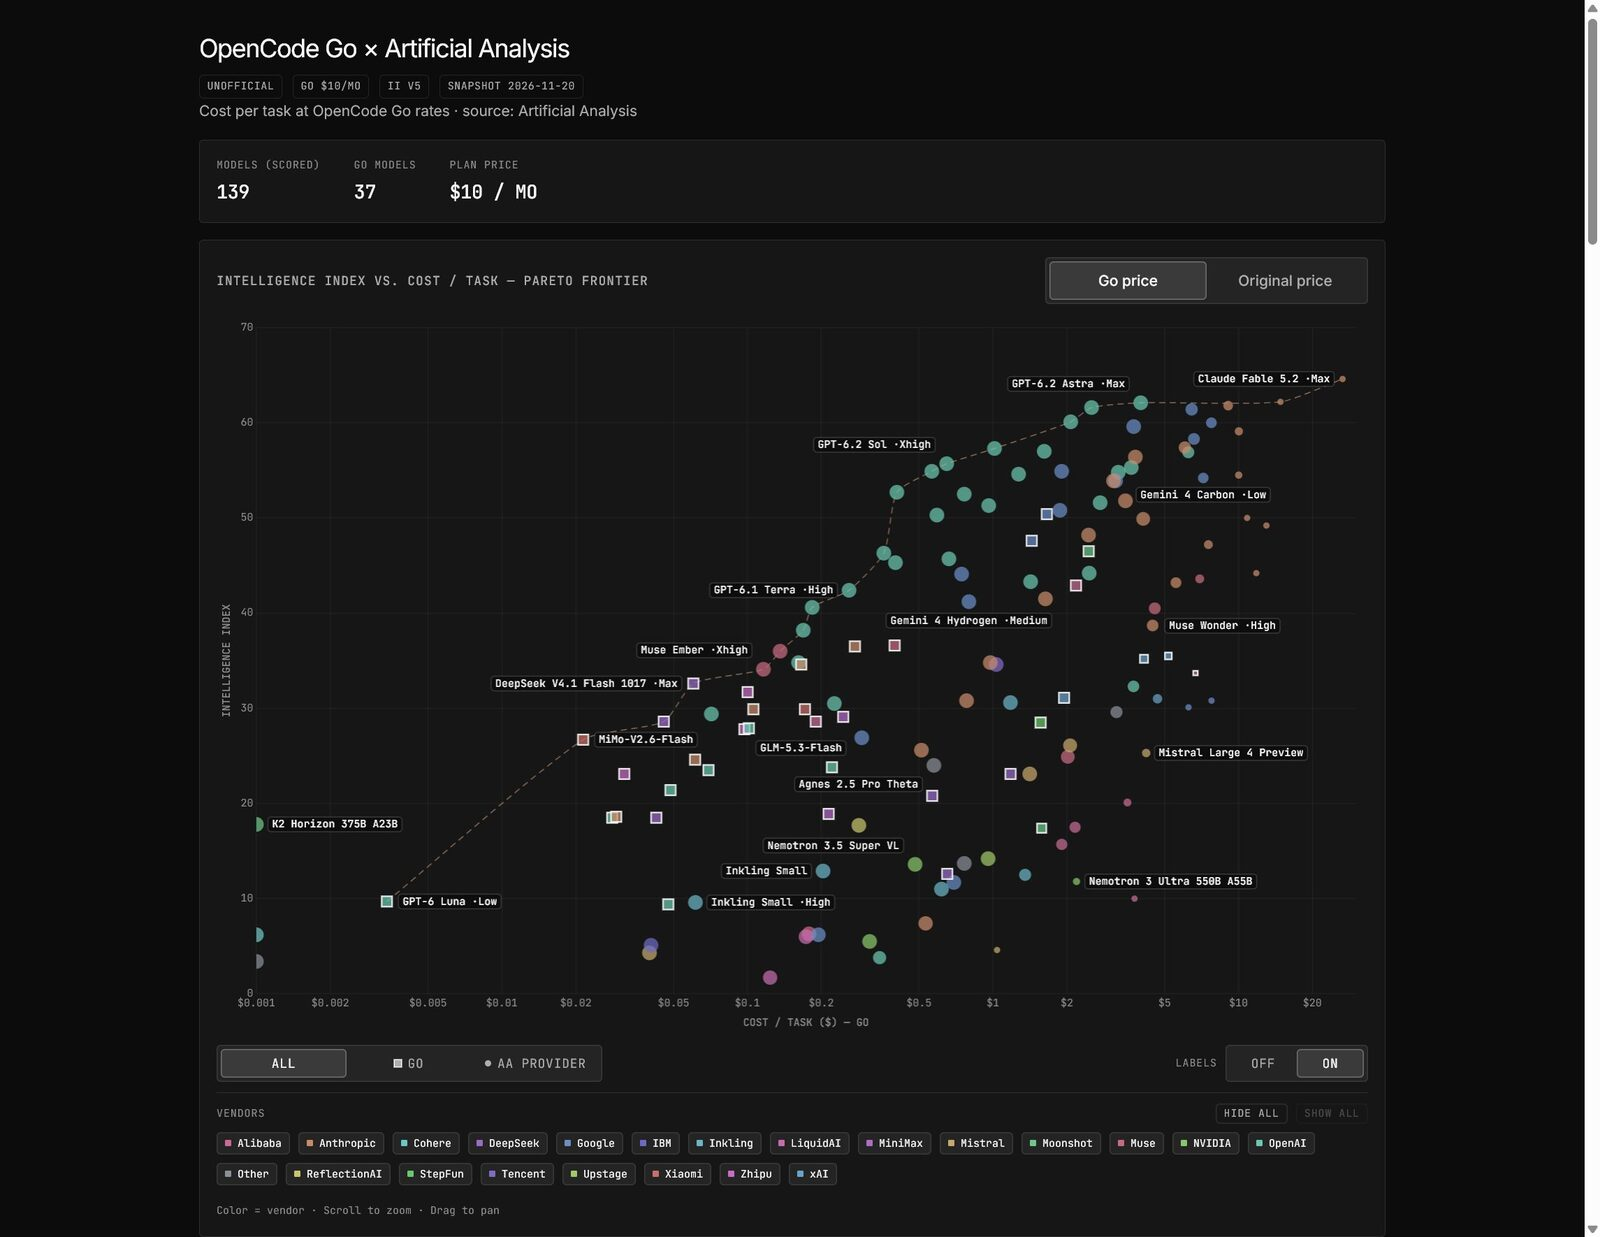
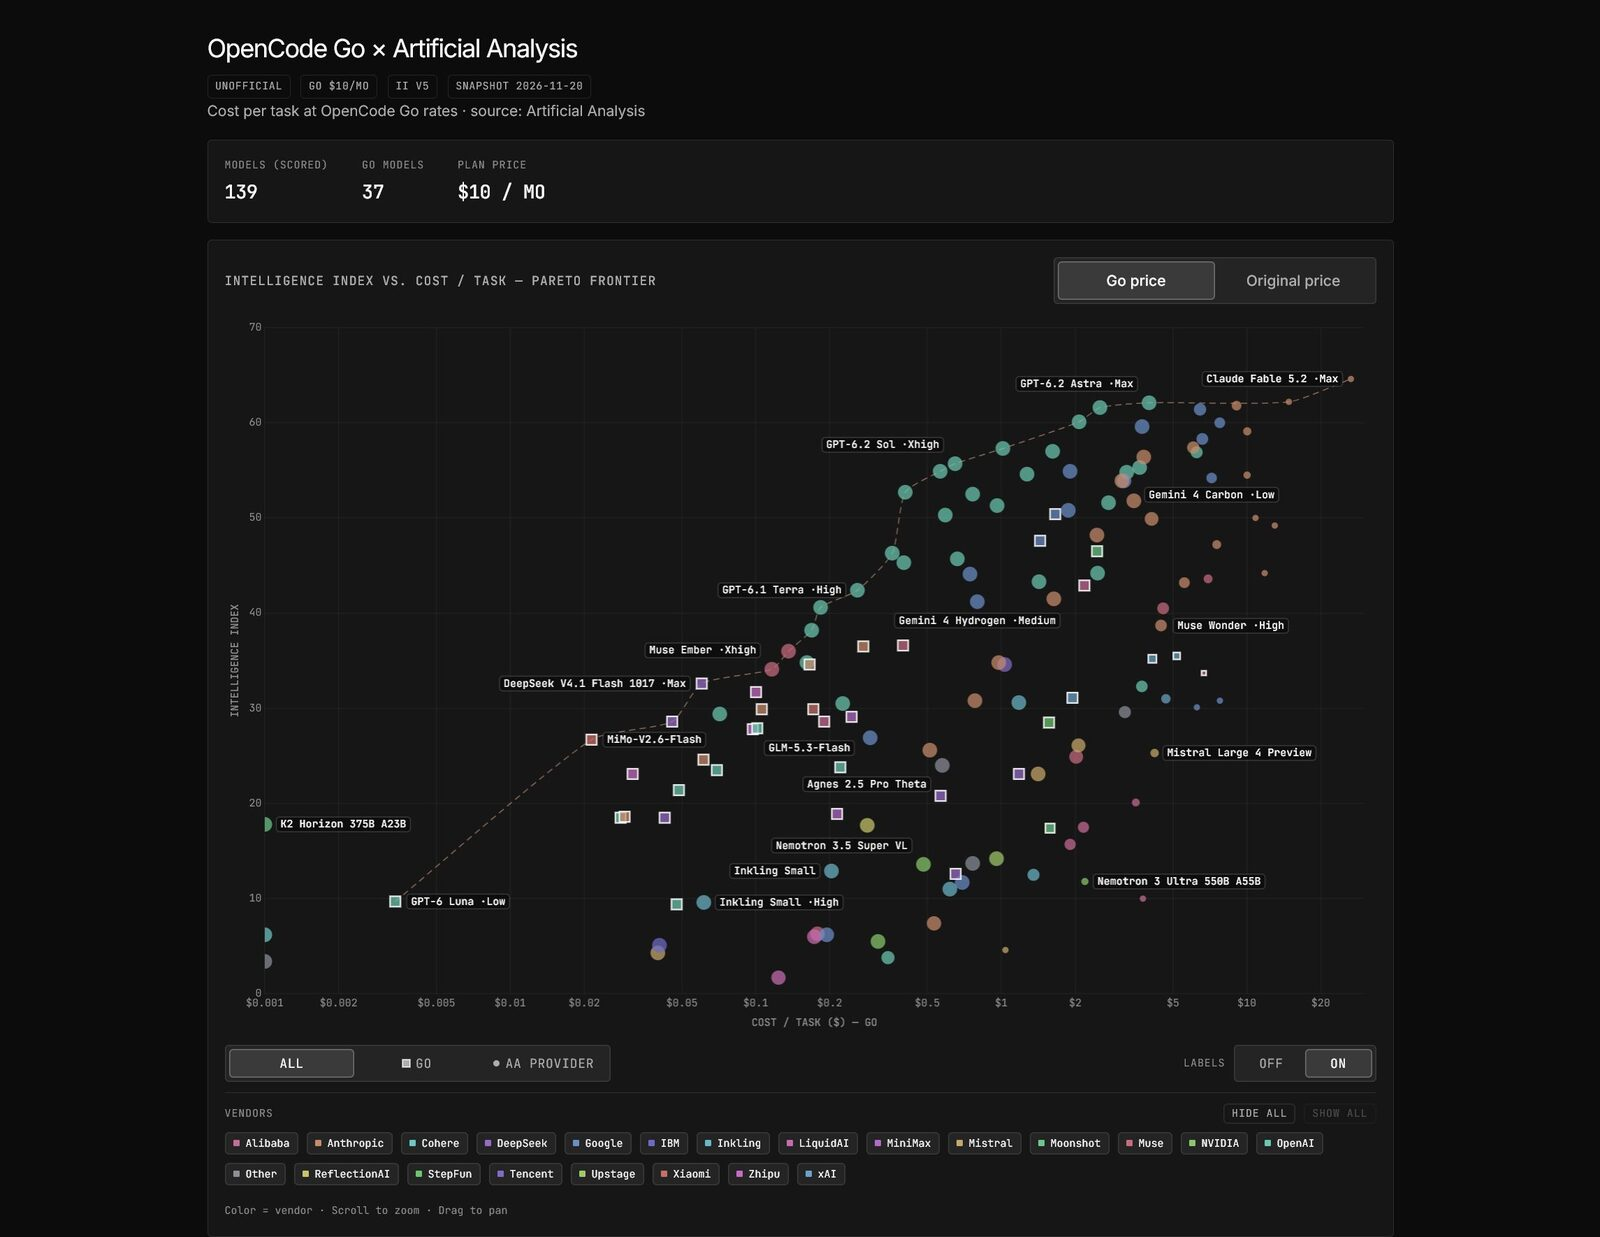
ui: hide the page scrollbar
- page still scrolls by wheel, keyboard and touch; the bar no longer overlays the chart

- README screenshot retaken without it

diff --git a/index.html b/index.html
@@ -18,6 +18,8 @@
   }
   *{box-sizing:border-box}
   body{margin:0;background:var(--bg);color:var(--text);font-family:var(--ui);font-size:14px;line-height:1.5;-webkit-font-smoothing:antialiased}
+  html{scrollbar-width:none}
+  html::-webkit-scrollbar,body::-webkit-scrollbar{display:none}
   a{color:var(--muted);text-decoration:none}
   a:hover{color:var(--text)}
   header,main{max-width:1180px;margin:0 auto;padding:0 24px}
